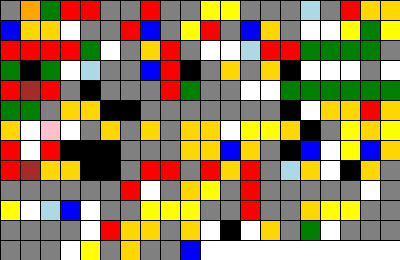
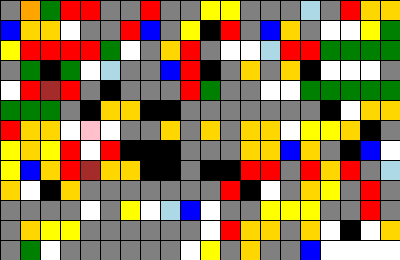
remove CheckForFalsePositive

diff --git a/Lab_1/Program.cs b/Lab_1/Program.cs
@@ -1,5 +1,4 @@
-
-using System.Drawing;
+using System.Drawing;
 using System.Drawing.Imaging;
 using System.Text;
 using System.Text.RegularExpressions;
@@ -25,7 +24,7 @@ namespace ColorSquaresFromText
 
                 string text = File.ReadAllText(filePath, System.Text.Encoding.UTF8);
 
-                // Получение цветов из слов
+                
                 var result = GetColorsFromText(text);
                 var coloredWords = result.Item1;
                 var colors = result.Item2;
@@ -36,18 +35,16 @@ namespace ColorSquaresFromText
                     return;
                 }
 
-                // Выводим найденные цветные слова
+                
                 Console.WriteLine("Найдены цветные слова:");
                 foreach (var word in coloredWords)
                 {
                     Console.WriteLine(word);
                 }
 
-                // Параметры изображения
                 int squareSize = 20;
                 int columns = 20;
 
-                // Создание изображения
                 string outputPath = CreateColorImage(colors, squareSize, columns);
 
                 Console.WriteLine($"\nИзображение создано: {outputPath}");
@@ -94,7 +91,6 @@ namespace ColorSquaresFromText
                 {"коралл", Color.Coral}
             };
 
-            // Список слов-исключений, которые содержат цветовые корни, но НЕ являются цветами
             var exclusionWords = new HashSet<string>
             {
                 "синди", "синтез", "синхронизация", "синдикат", "синтаксис", "анализ",
@@ -111,7 +107,6 @@ namespace ColorSquaresFromText
                 "серебрение", "серебряник", "серебрянка"
             };
 
-            // Улучшенное регулярное выражение для поиска слов
             var words = Regex.Matches(text, @"\b[\p{IsCyrillic}]{3,}\b", RegexOptions.IgnoreCase);
             
             foreach (Match wordMatch in words)
@@ -119,55 +114,21 @@ namespace ColorSquaresFromText
                 string originalWord = wordMatch.Value;
                 string word = originalWord.ToLower();
                 
-                // Проверяем, является ли слово исключением (не цветом)
                 if (exclusionWords.Contains(word))
                 {
-                    continue; // Пропускаем это слово - это ложное срабатывание
+                    continue; 
                 }
                 
-                // Ищем слова, которые начинаются с цветового корня
-                var colorMatch = colorMap.FirstOrDefault(kvp => word.StartsWith(kvp.Key));
+                var colorMatch = colorMap.FirstOrDefault(KeyValuePair => word.StartsWith(KeyValuePair.Key));
                 
                 if (!colorMatch.Equals(default(KeyValuePair<string, Color>)))
                 {
-                    bool isFalsePositive = CheckForFalsePositive(word, colorMatch.Key);
-                    
-                    if (!isFalsePositive)
-                    {
-                        colors.Add(colorMatch.Value);
-                        coloredWords.Add(originalWord);
-                    }
+                    colors.Add(colorMatch.Value);
+                    coloredWords.Add(originalWord);
                 }
             }
 
             return (coloredWords, colors);
-        }
-
-        // Метод для проверки ложных срабатываний
-        static bool CheckForFalsePositive(string word, string colorRoot)
-        {
-            // Список общих суффиксов, которые указывают на ложные срабатывания
-            var falsePositiveSuffixes = new[]
-            {
-                "тез", "так", "такс", "хрон", "хрония", "дикат", "дикация",
-                "поз", "позиция", "нал", "нализ", "тет", "тетика", "метр",
-                "метрия", "лог", "логия", "граф", "графия", "ном", "номия",
-                "ватый", "речивый", "армеец", "город", "дар", "зем", "быль",
-                "морский", "летристика", "донна", "пухов", "повидный", "дечный",
-                "ятня", "бика", "глазый", "дор", "фей", "невший", "тистый",
-                "ник", "ноша", "ушный", "рение", "рянка"
-            };
-
-            // Если слово заканчивается на один из суффиксов ложных срабатываний
-            foreach (var suffix in falsePositiveSuffixes)
-            {
-                if (word.EndsWith(suffix) && word.StartsWith(colorRoot))
-                {
-                    return true;
-                }
-            }
-
-            return false;
         }
 
         static string CreateColorImage(List<Color> colors, int squareSize, int columns)

diff --git a/Lab_1/obj/Debug/net9.0/Lab_1.AssemblyInfo.cs b/Lab_1/obj/Debug/net9.0/Lab_1.AssemblyInfo.cs
@@ -13,7 +13,7 @@ using System.Reflection;
 [assembly: System.Reflection.AssemblyCompanyAttribute("Lab_1")]
 [assembly: System.Reflection.AssemblyConfigurationAttribute("Debug")]
 [assembly: System.Reflection.AssemblyFileVersionAttribute("1.0.0.0")]
-[assembly: System.Reflection.AssemblyInformationalVersionAttribute("1.0.0+b28a0f346a0c3d305807ab3c6859f1cebc2b08e3")]
+[assembly: System.Reflection.AssemblyInformationalVersionAttribute("1.0.0+d2727f3eb4d637996560a5d4b4ddf040868bd273")]
 [assembly: System.Reflection.AssemblyProductAttribute("Lab_1")]
 [assembly: System.Reflection.AssemblyTitleAttribute("Lab_1")]
 [assembly: System.Reflection.AssemblyVersionAttribute("1.0.0.0")]
